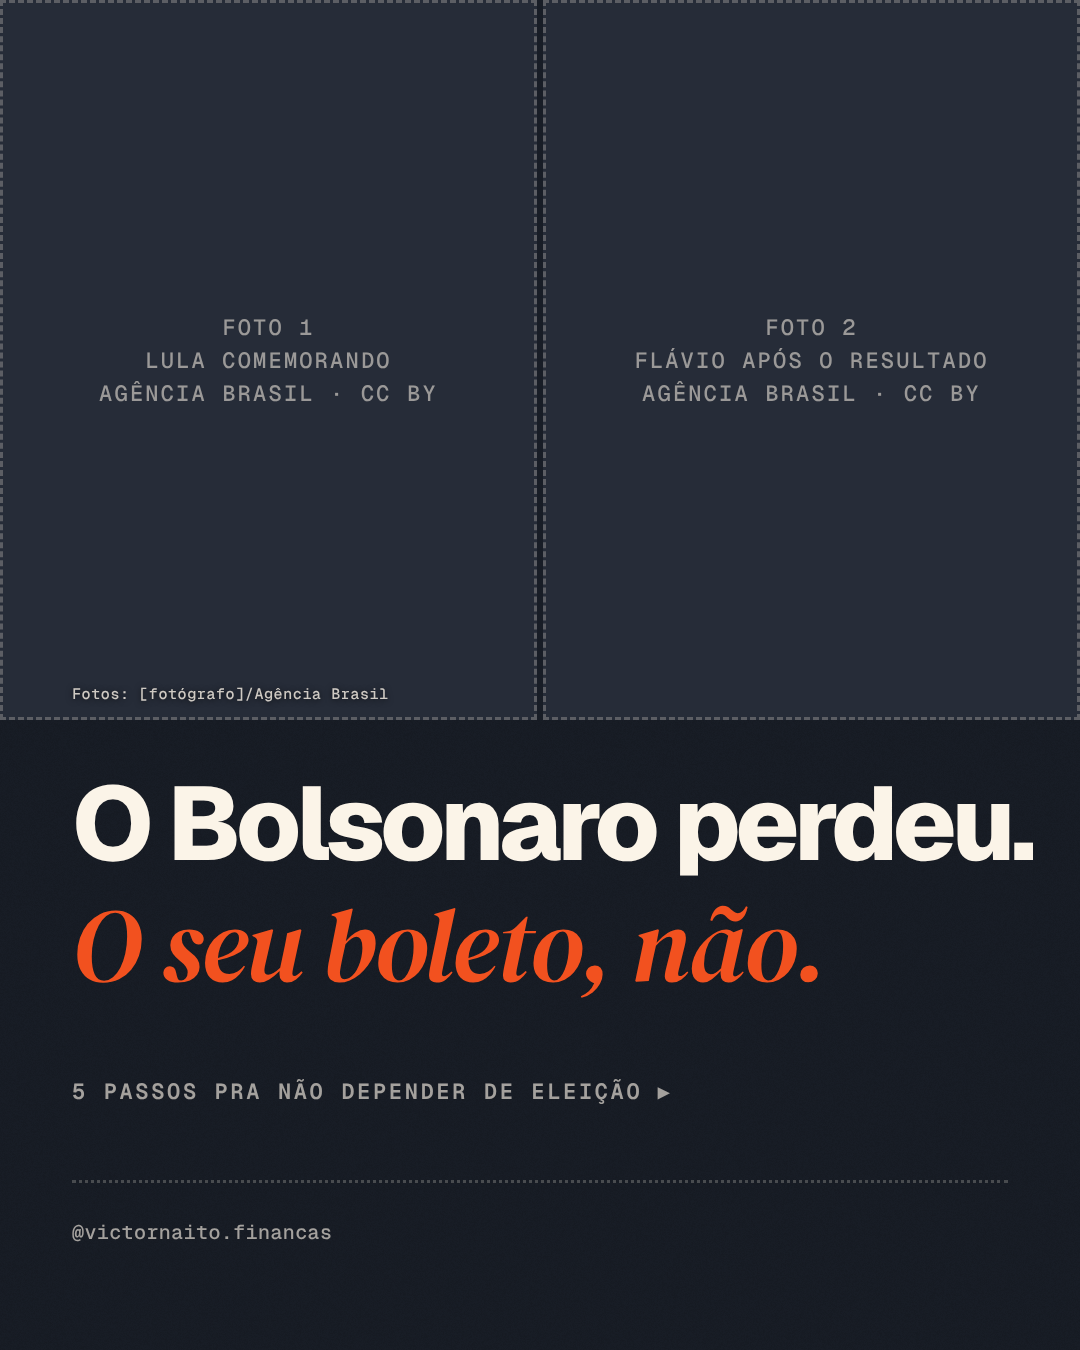
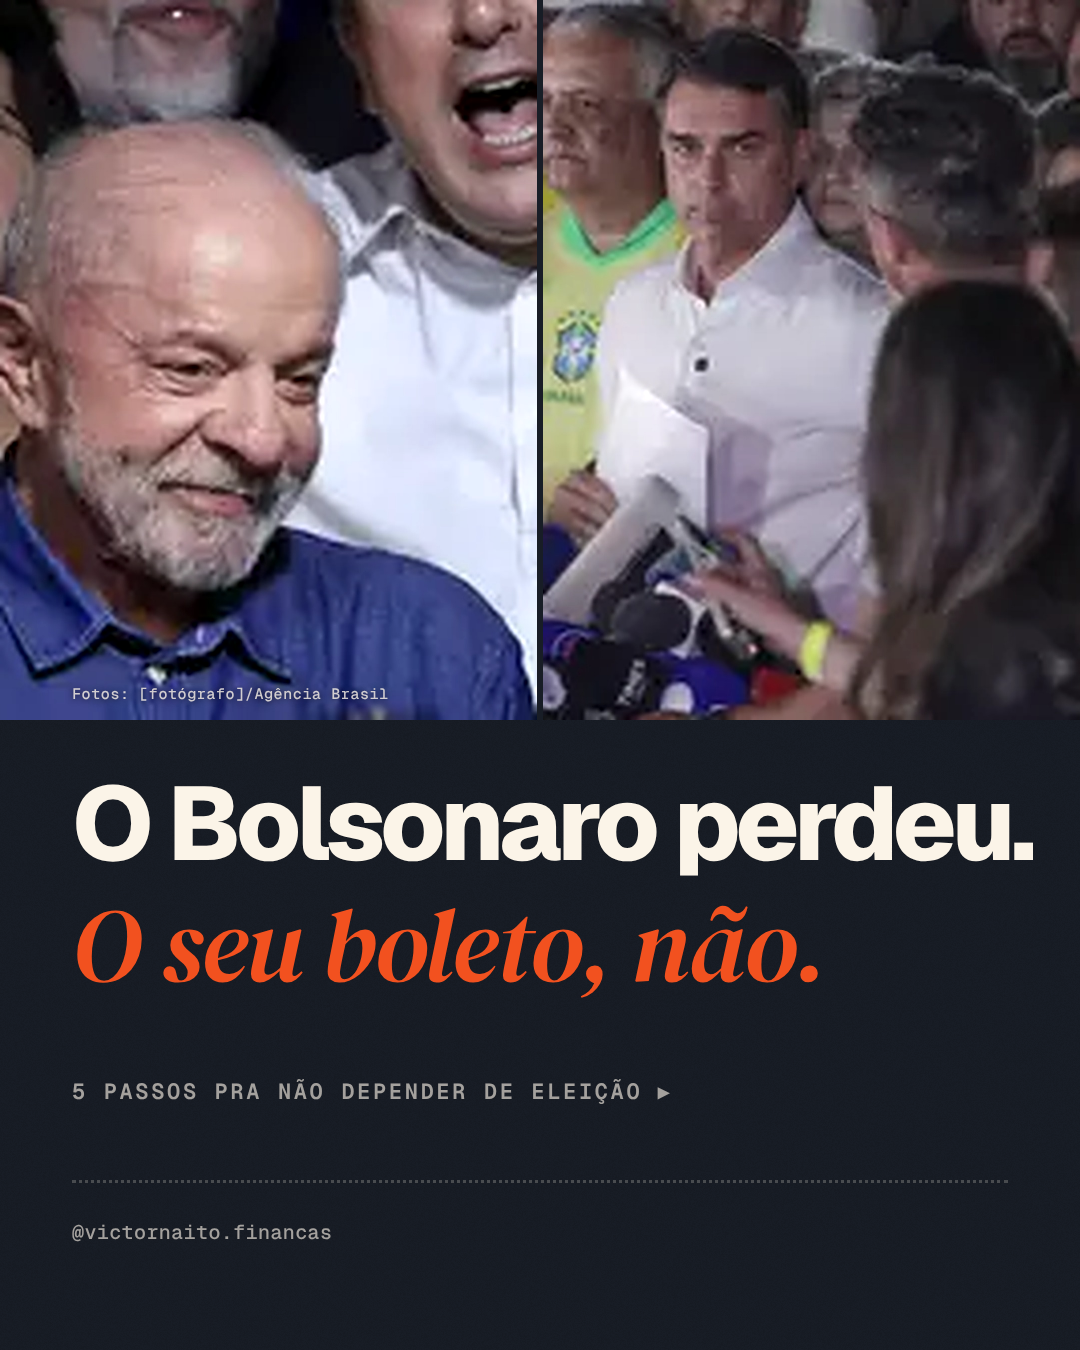
Capa com as fotos de Lula e Flávio (Agência Brasil), recortadas nos rostos
Claude-Session: https://claude.ai/code/session_01TotVN7tdVpZgMdjQZDGE1C

diff --git a/carrosseis/eleicao-5-passos/src/slide-01.html b/carrosseis/eleicao-5-passos/src/slide-01.html
@@ -27,7 +27,7 @@
   <canvas id="grao" width="1080" height="1350" data-semente="01"></canvas>
   
 
-  <div class="abs fotos"><div class="vaga"><span>Foto 1<br>Lula comemorando<br>Agência Brasil · CC BY</span></div><div class="vaga"><span>Foto 2<br>Flávio após o resultado<br>Agência Brasil · CC BY</span></div></div>
+  <div class="abs fotos"><img src="../assets/foto-lula.jpg" alt=""><img src="../assets/foto-flavio.jpg" alt=""></div>
   <div class="abs credito">Fotos: [fotógrafo]/Agência Brasil</div>
   <div class="abs titulo t1">O Bolsonaro perdeu.</div>
   <div class="abs serifa p1">O seu boleto, não.</div>
